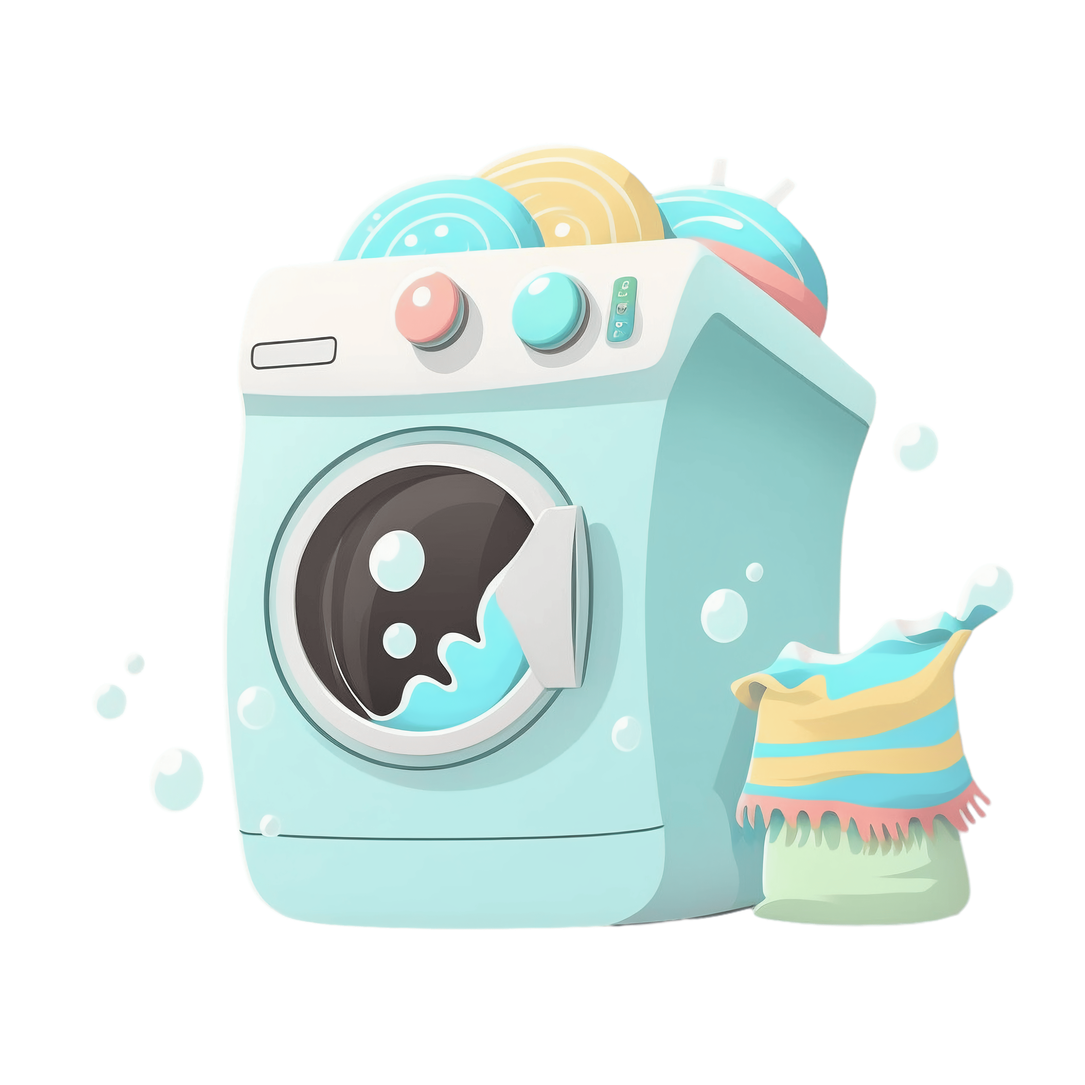
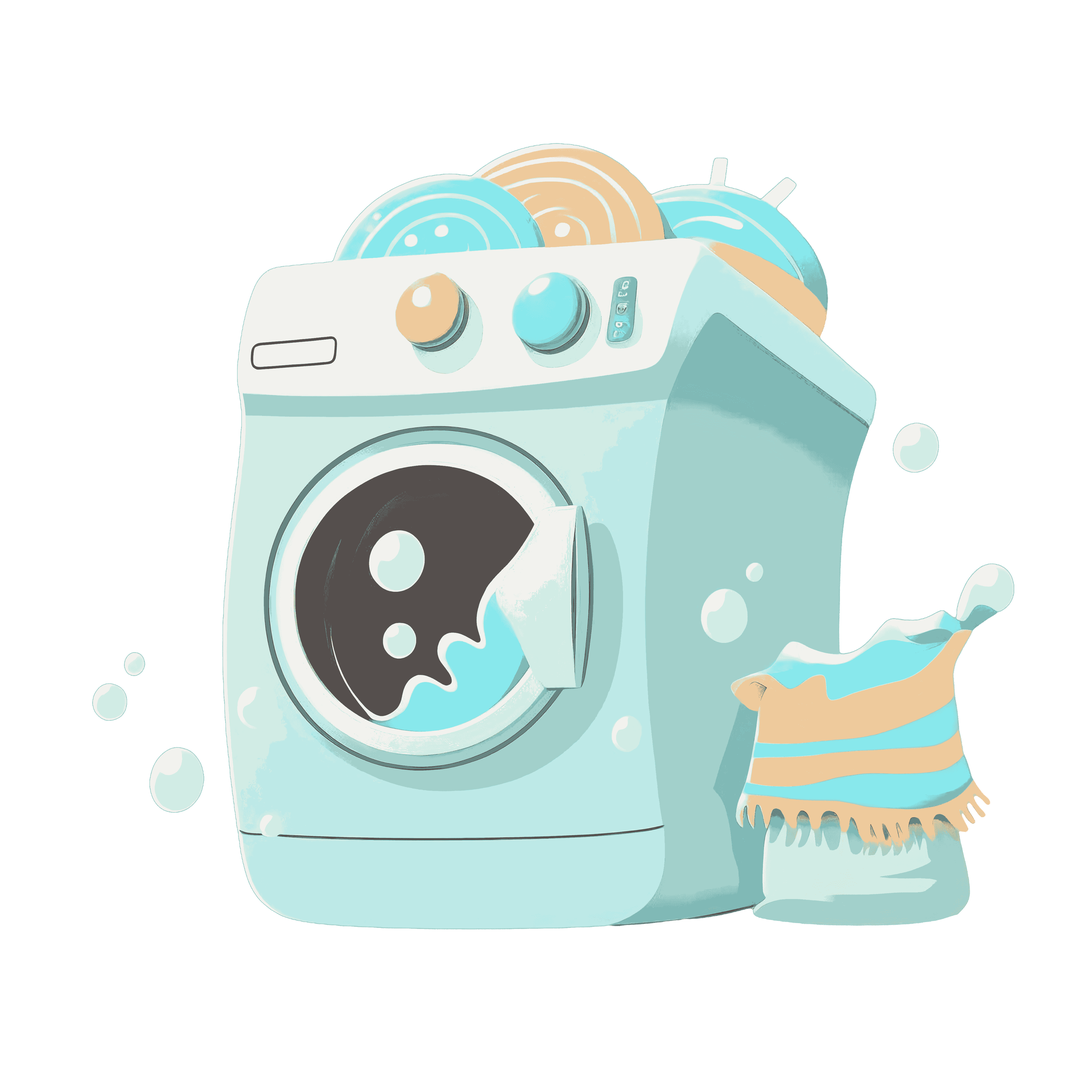
1. Added customer name on the machine card 2. Reduce image file size of machines

diff --git a/public/sw.js b/public/sw.js
@@ -1,1 +1,1 @@
-if(!self.define){let e,a={};const s=(s,n)=>(s=new URL(s+".js",n).href,a[s]||new Promise(a=>{if("document"in self){const e=document.createElement("script");e.src=s,e.onload=a,document.head.appendChild(e)}else e=s,importScripts(s),a()}).then(()=>{let e=a[s];if(!e)throw new Error(`Module ${s} didn’t register its module`);return e}));self.define=(n,t)=>{const i=e||("document"in self?document.currentScript.src:"")||location.href;if(a[i])return;let c={};const o=e=>s(e,i),r={module:{uri:i},exports:c,require:o};a[i]=Promise.all(n.map(e=>r[e]||o(e))).then(e=>(t(...e),c))}}define(["./workbox-4754cb34"],function(e){"use strict";importScripts(),self.skipWaiting(),e.clientsClaim(),e.precacheAndRoute([{url:"/_next/app-build-manifest.json",revision:"9d365383e2726a4067da9e233619fbbf"},{url:"/_next/static/SKlEOfRNqBEP_TpjzB6Do/_buildManifest.js",revision:"172e769da91baa11de9b258fb2d92f86"},{url:"/_next/static/SKlEOfRNqBEP_TpjzB6Do/_ssgManifest.js",revision:"b6652df95db52feb4daf4eca35380933"},{url:"/_next/static/chunks/117-346269503dbf0a27.js",revision:"SKlEOfRNqBEP_TpjzB6Do"},{url:"/_next/static/chunks/192-e29d1a4615249718.js",revision:"SKlEOfRNqBEP_TpjzB6Do"},{url:"/_next/static/chunks/277-f1d5c0aad355fd4f.js",revision:"SKlEOfRNqBEP_TpjzB6Do"},{url:"/_next/static/chunks/411-7b0825a9e261da51.js",revision:"SKlEOfRNqBEP_TpjzB6Do"},{url:"/_next/static/chunks/563-508cffd831ae086e.js",revision:"SKlEOfRNqBEP_TpjzB6Do"},{url:"/_next/static/chunks/572-73c5d1ef50225b33.js",revision:"SKlEOfRNqBEP_TpjzB6Do"},{url:"/_next/static/chunks/578-da149d7916090be9.js",revision:"SKlEOfRNqBEP_TpjzB6Do"},{url:"/_next/static/chunks/64-9a3f2ad958aa4f2a.js",revision:"SKlEOfRNqBEP_TpjzB6Do"},{url:"/_next/static/chunks/645-0a1400c2996e09a2.js",revision:"SKlEOfRNqBEP_TpjzB6Do"},{url:"/_next/static/chunks/667-b614c2dba61f071d.js",revision:"SKlEOfRNqBEP_TpjzB6Do"},{url:"/_next/static/chunks/736-cf288ecddac3fd3c.js",revision:"SKlEOfRNqBEP_TpjzB6Do"},{url:"/_next/static/chunks/878-8e9030393dacbd1b.js",revision:"SKlEOfRNqBEP_TpjzB6Do"},{url:"/_next/static/chunks/972-f02aa6c0fcc9f773.js",revision:"SKlEOfRNqBEP_TpjzB6Do"},{url:"/_next/static/chunks/app/(marketing)/page-011a1beed2db88b5.js",revision:"SKlEOfRNqBEP_TpjzB6Do"},{url:"/_next/static/chunks/app/(onboarding)/inviteStaff/page-a834c6fdd7d61cac.js",revision:"SKlEOfRNqBEP_TpjzB6Do"},{url:"/_next/static/chunks/app/(onboarding)/registerShop/page-4efa01af1414485e.js",revision:"SKlEOfRNqBEP_TpjzB6Do"},{url:"/_next/static/chunks/app/_not-found/page-b51179d51d3e7557.js",revision:"SKlEOfRNqBEP_TpjzB6Do"},{url:"/_next/static/chunks/app/acceptInvitation/page-ed07d6e92b082f9f.js",revision:"SKlEOfRNqBEP_TpjzB6Do"},{url:"/_next/static/chunks/app/auth/signIn/page-9244cbeba01b6838.js",revision:"SKlEOfRNqBEP_TpjzB6Do"},{url:"/_next/static/chunks/app/auth/signUp/page-b18f0d54fb6bd6c2.js",revision:"SKlEOfRNqBEP_TpjzB6Do"},{url:"/_next/static/chunks/app/layout-a80eb564ad504075.js",revision:"SKlEOfRNqBEP_TpjzB6Do"},{url:"/_next/static/chunks/app/not-allowed/page-6e2ae3ea8adae806.js",revision:"SKlEOfRNqBEP_TpjzB6Do"},{url:"/_next/static/chunks/app/not-found-bc83d0fa8e450ed1.js",revision:"SKlEOfRNqBEP_TpjzB6Do"},{url:"/_next/static/chunks/app/tenants/%5BtenantSlug%5D/adminDashboard/loading-27d4b7651ea1357c.js",revision:"SKlEOfRNqBEP_TpjzB6Do"},{url:"/_next/static/chunks/app/tenants/%5BtenantSlug%5D/adminDashboard/page-02eb5c966630a986.js",revision:"SKlEOfRNqBEP_TpjzB6Do"},{url:"/_next/static/chunks/app/tenants/%5BtenantSlug%5D/page-9cc80005dec10b3f.js",revision:"SKlEOfRNqBEP_TpjzB6Do"},{url:"/_next/static/chunks/app/tenants/%5BtenantSlug%5D/tenantDashboard/expense/page-417d3b6f6424c928.js",revision:"SKlEOfRNqBEP_TpjzB6Do"},{url:"/_next/static/chunks/app/tenants/%5BtenantSlug%5D/tenantDashboard/inventory/%5Bid%5D/edit/page-83a826a885116a83.js",revision:"SKlEOfRNqBEP_TpjzB6Do"},{url:"/_next/static/chunks/app/tenants/%5BtenantSlug%5D/tenantDashboard/inventory/itemSetup/page-c3b169059989d622.js",revision:"SKlEOfRNqBEP_TpjzB6Do"},{url:"/_next/static/chunks/app/tenants/%5BtenantSlug%5D/tenantDashboard/inventory/page-b416be79bbc77df4.js",revision:"SKlEOfRNqBEP_TpjzB6Do"},{url:"/_next/static/chunks/app/tenants/%5BtenantSlug%5D/tenantDashboard/machines/%5Bid%5D/edit/page-e28f90d2d692a0ee.js",revision:"SKlEOfRNqBEP_TpjzB6Do"},{url:"/_next/static/chunks/app/tenants/%5BtenantSlug%5D/tenantDashboard/machines/machineSetup/page-2290cc01ff1b3af0.js",revision:"SKlEOfRNqBEP_TpjzB6Do"},{url:"/_next/static/chunks/app/tenants/%5BtenantSlug%5D/tenantDashboard/machines/page-20b8c77b1d1da25f.js",revision:"SKlEOfRNqBEP_TpjzB6Do"},{url:"/_next/static/chunks/app/tenants/%5BtenantSlug%5D/tenantDashboard/page-073c47856ff36418.js",revision:"SKlEOfRNqBEP_TpjzB6Do"},{url:"/_next/static/chunks/app/tenants/%5BtenantSlug%5D/tenantDashboard/pos/page-0249a6d8063cde7a.js",revision:"SKlEOfRNqBEP_TpjzB6Do"},{url:"/_next/static/chunks/app/tenants/%5BtenantSlug%5D/tenantDashboard/sales/page-0030bcaf2c628602.js",revision:"SKlEOfRNqBEP_TpjzB6Do"},{url:"/_next/static/chunks/app/tenants/%5BtenantSlug%5D/tenantDashboard/services/%5Bid%5D/edit/page-2b92bac01a6f5f1e.js",revision:"SKlEOfRNqBEP_TpjzB6Do"},{url:"/_next/static/chunks/app/tenants/%5BtenantSlug%5D/tenantDashboard/services/page-8b127f4809a511c8.js",revision:"SKlEOfRNqBEP_TpjzB6Do"},{url:"/_next/static/chunks/app/tenants/%5BtenantSlug%5D/tenantDashboard/services/serviceSetup/page-a4812ecaa67dbcfa.js",revision:"SKlEOfRNqBEP_TpjzB6Do"},{url:"/_next/static/chunks/fd9d1056-34357aac543c38df.js",revision:"SKlEOfRNqBEP_TpjzB6Do"},{url:"/_next/static/chunks/framework-00a8ba1a63cfdc9e.js",revision:"SKlEOfRNqBEP_TpjzB6Do"},{url:"/_next/static/chunks/main-2dab491fb7ccb414.js",revision:"SKlEOfRNqBEP_TpjzB6Do"},{url:"/_next/static/chunks/main-app-6e8411507b0247c1.js",revision:"SKlEOfRNqBEP_TpjzB6Do"},{url:"/_next/static/chunks/pages/_app-15e2daefa259f0b5.js",revision:"SKlEOfRNqBEP_TpjzB6Do"},{url:"/_next/static/chunks/pages/_error-28b803cb2479b966.js",revision:"SKlEOfRNqBEP_TpjzB6Do"},{url:"/_next/static/chunks/polyfills-42372ed130431b0a.js",revision:"846118c33b2c0e922d7b3a7676f81f6f"},{url:"/_next/static/chunks/webpack-30d5dee8645b08e9.js",revision:"SKlEOfRNqBEP_TpjzB6Do"},{url:"/_next/static/css/cb3223f1338cb61b.css",revision:"cb3223f1338cb61b"},{url:"/_next/static/media/034d78ad42e9620c-s.woff2",revision:"be7c930fceb794521be0a68e113a71d8"},{url:"/_next/static/media/0484562807a97172-s.p.woff2",revision:"b550bca8934bd86812d1f5e28c9cc1de"},{url:"/_next/static/media/29a4aea02fdee119-s.woff2",revision:"69d9d2cdadeab7225297d50fc8e48e8b"},{url:"/_next/static/media/29e7bbdce9332268-s.woff2",revision:"9e3ecbe4bb4c6f0b71adc1cd481c2bdc"},{url:"/_next/static/media/39969fcf98a3026e-s.woff2",revision:"01cbba1eab04f564e7d2f44107608d74"},{url:"/_next/static/media/4de1fea1a954a5b6-s.p.woff2",revision:"b7d6b48d8d12946dc808ff39aed6c460"},{url:"/_next/static/media/6d664cce900333ee-s.p.woff2",revision:"017598645bcc882a3610effe171c2ca3"},{url:"/_next/static/media/8888a3826f4a3af4-s.p.woff2",revision:"792477d09826b11d1e5a611162c9797a"},{url:"/_next/static/media/a1386beebedccca4-s.woff2",revision:"d3aa06d13d3cf9c0558927051f3cb948"},{url:"/_next/static/media/b957ea75a84b6ea7-s.p.woff2",revision:"0bd523f6049956faaf43c254a719d06a"},{url:"/_next/static/media/c3bc380753a8436c-s.woff2",revision:"5a1b7c983a9dc0a87a2ff138e07ae822"},{url:"/_next/static/media/cce080f35d014443-s.woff2",revision:"b0d4953143648e4486d93df16327b906"},{url:"/_next/static/media/db911767852bc875-s.woff2",revision:"9516f567cd80b0f418bba2f1299ed6d1"},{url:"/_next/static/media/eafabf029ad39a43-s.p.woff2",revision:"43751174b6b810eb169101a20d8c26f8"},{url:"/_next/static/media/f10b8e9d91f3edcb-s.woff2",revision:"63af7d5e18e585fad8d0220e5d551da1"},{url:"/_next/static/media/fe0777f1195381cb-s.woff2",revision:"f2a04185547c36abfa589651236a9849"},{url:"/_next/static/media/spin-cycle-logo-a.f58b0745.png",revision:"ec02c18fdfc5e7ab17a22903724617d9"},{url:"/_next/static/media/spin-cycle-logo.4be90582.png",revision:"1c308f5442e2afd95ee4317b369c611d"},{url:"/dryer.png",revision:"88537963777236ded53eda079423cda3"},{url:"/file.svg",revision:"d09f95206c3fa0bb9bd9fefabfd0ea71"},{url:"/globe.svg",revision:"2aaafa6a49b6563925fe440891e32717"},{url:"/icons/icon-192.png",revision:"cc1334d4a3ef6e4212e45f394f7e9a9a"},{url:"/icons/icon-512.png",revision:"e153cdd3705961eef8340124b9dbf975"},{url:"/icons/spin-cycle-logo.png",revision:"1c308f5442e2afd95ee4317b369c611d"},{url:"/icons/splash.png",revision:"1c308f5442e2afd95ee4317b369c611d"},{url:"/manifest.json",revision:"1a758a91355410b4074ef88f67c94c0d"},{url:"/next.svg",revision:"8e061864f388b47f33a1c3780831193e"},{url:"/screenshots/dashboard-mobile.png",revision:"65f60e383796359d28191a6e04cbc8fd"},{url:"/screenshots/dashboard-wide.png",revision:"15e62be3eca1e09f1a4afde3d1cd1a6d"},{url:"/settings-icon.png",revision:"4b9e072ac74616b313b058e4f6eb2dae"},{url:"/spin-cycle-logo-a.png",revision:"ec02c18fdfc5e7ab17a22903724617d9"},{url:"/spin-cycle-logo.png",revision:"1c308f5442e2afd95ee4317b369c611d"},{url:"/vercel.svg",revision:"c0af2f507b369b085b35ef4bbe3bcf1e"},{url:"/washer.png",revision:"c472965d13fb02c81689647a903e1479"},{url:"/washer_ua.png",revision:"3901a1dcd2a9fb97d57c54825d54b367"},{url:"/window.svg",revision:"a2760511c65806022ad20adf74370ff3"}],{ignoreURLParametersMatching:[]}),e.cleanupOutdatedCaches(),e.registerRoute("/",new e.NetworkFirst({cacheName:"start-url",plugins:[{cacheWillUpdate:async({request:e,response:a,event:s,state:n})=>a&&"opaqueredirect"===a.type?new Response(a.body,{status:200,statusText:"OK",headers:a.headers}):a}]}),"GET"),e.registerRoute(/^https:\/\/fonts\.(?:gstatic)\.com\/.*/i,new e.CacheFirst({cacheName:"google-fonts-webfonts",plugins:[new e.ExpirationPlugin({maxEntries:4,maxAgeSeconds:31536e3})]}),"GET"),e.registerRoute(/^https:\/\/fonts\.(?:googleapis)\.com\/.*/i,new e.StaleWhileRevalidate({cacheName:"google-fonts-stylesheets",plugins:[new e.ExpirationPlugin({maxEntries:4,maxAgeSeconds:604800})]}),"GET"),e.registerRoute(/\.(?:eot|otf|ttc|ttf|woff|woff2|font.css)$/i,new e.StaleWhileRevalidate({cacheName:"static-font-assets",plugins:[new e.ExpirationPlugin({maxEntries:4,maxAgeSeconds:604800})]}),"GET"),e.registerRoute(/\.(?:jpg|jpeg|gif|png|svg|ico|webp)$/i,new e.StaleWhileRevalidate({cacheName:"static-image-assets",plugins:[new e.ExpirationPlugin({maxEntries:64,maxAgeSeconds:86400})]}),"GET"),e.registerRoute(/\/_next\/image\?url=.+$/i,new e.StaleWhileRevalidate({cacheName:"next-image",plugins:[new e.ExpirationPlugin({maxEntries:64,maxAgeSeconds:86400})]}),"GET"),e.registerRoute(/\.(?:mp3|wav|ogg)$/i,new e.CacheFirst({cacheName:"static-audio-assets",plugins:[new e.RangeRequestsPlugin,new e.ExpirationPlugin({maxEntries:32,maxAgeSeconds:86400})]}),"GET"),e.registerRoute(/\.(?:mp4)$/i,new e.CacheFirst({cacheName:"static-video-assets",plugins:[new e.RangeRequestsPlugin,new e.ExpirationPlugin({maxEntries:32,maxAgeSeconds:86400})]}),"GET"),e.registerRoute(/\.(?:js)$/i,new e.StaleWhileRevalidate({cacheName:"static-js-assets",plugins:[new e.ExpirationPlugin({maxEntries:32,maxAgeSeconds:86400})]}),"GET"),e.registerRoute(/\.(?:css|less)$/i,new e.StaleWhileRevalidate({cacheName:"static-style-assets",plugins:[new e.ExpirationPlugin({maxEntries:32,maxAgeSeconds:86400})]}),"GET"),e.registerRoute(/\/_next\/data\/.+\/.+\.json$/i,new e.StaleWhileRevalidate({cacheName:"next-data",plugins:[new e.ExpirationPlugin({maxEntries:32,maxAgeSeconds:86400})]}),"GET"),e.registerRoute(/\.(?:json|xml|csv)$/i,new e.NetworkFirst({cacheName:"static-data-assets",plugins:[new e.ExpirationPlugin({maxEntries:32,maxAgeSeconds:86400})]}),"GET"),e.registerRoute(({url:e})=>{if(!(self.origin===e.origin))return!1;const a=e.pathname;return!a.startsWith("/api/auth/")&&!!a.startsWith("/api/")},new e.NetworkFirst({cacheName:"apis",networkTimeoutSeconds:10,plugins:[new e.ExpirationPlugin({maxEntries:16,maxAgeSeconds:86400})]}),"GET"),e.registerRoute(({url:e})=>{if(!(self.origin===e.origin))return!1;return!e.pathname.startsWith("/api/")},new e.NetworkFirst({cacheName:"others",networkTimeoutSeconds:10,plugins:[new e.ExpirationPlugin({maxEntries:32,maxAgeSeconds:86400})]}),"GET"),e.registerRoute(({url:e})=>!(self.origin===e.origin),new e.NetworkFirst({cacheName:"cross-origin",networkTimeoutSeconds:10,plugins:[new e.ExpirationPlugin({maxEntries:32,maxAgeSeconds:3600})]}),"GET")});
+if(!self.define){let e,a={};const s=(s,n)=>(s=new URL(s+".js",n).href,a[s]||new Promise(a=>{if("document"in self){const e=document.createElement("script");e.src=s,e.onload=a,document.head.appendChild(e)}else e=s,importScripts(s),a()}).then(()=>{let e=a[s];if(!e)throw new Error(`Module ${s} didn’t register its module`);return e}));self.define=(n,t)=>{const c=e||("document"in self?document.currentScript.src:"")||location.href;if(a[c])return;let i={};const d=e=>s(e,c),r={module:{uri:c},exports:i,require:d};a[c]=Promise.all(n.map(e=>r[e]||d(e))).then(e=>(t(...e),i))}}define(["./workbox-4754cb34"],function(e){"use strict";importScripts(),self.skipWaiting(),e.clientsClaim(),e.precacheAndRoute([{url:"/_next/app-build-manifest.json",revision:"1ef81d504cd755bf4429873db05158bd"},{url:"/_next/static/AFw6_cBJJYCJxmzGdRXWb/_buildManifest.js",revision:"172e769da91baa11de9b258fb2d92f86"},{url:"/_next/static/AFw6_cBJJYCJxmzGdRXWb/_ssgManifest.js",revision:"b6652df95db52feb4daf4eca35380933"},{url:"/_next/static/chunks/117-346269503dbf0a27.js",revision:"AFw6_cBJJYCJxmzGdRXWb"},{url:"/_next/static/chunks/192-e29d1a4615249718.js",revision:"AFw6_cBJJYCJxmzGdRXWb"},{url:"/_next/static/chunks/277-f1d5c0aad355fd4f.js",revision:"AFw6_cBJJYCJxmzGdRXWb"},{url:"/_next/static/chunks/411-7b0825a9e261da51.js",revision:"AFw6_cBJJYCJxmzGdRXWb"},{url:"/_next/static/chunks/563-508cffd831ae086e.js",revision:"AFw6_cBJJYCJxmzGdRXWb"},{url:"/_next/static/chunks/572-73c5d1ef50225b33.js",revision:"AFw6_cBJJYCJxmzGdRXWb"},{url:"/_next/static/chunks/578-da149d7916090be9.js",revision:"AFw6_cBJJYCJxmzGdRXWb"},{url:"/_next/static/chunks/64-9a3f2ad958aa4f2a.js",revision:"AFw6_cBJJYCJxmzGdRXWb"},{url:"/_next/static/chunks/645-0a1400c2996e09a2.js",revision:"AFw6_cBJJYCJxmzGdRXWb"},{url:"/_next/static/chunks/667-b614c2dba61f071d.js",revision:"AFw6_cBJJYCJxmzGdRXWb"},{url:"/_next/static/chunks/736-cf288ecddac3fd3c.js",revision:"AFw6_cBJJYCJxmzGdRXWb"},{url:"/_next/static/chunks/878-8e9030393dacbd1b.js",revision:"AFw6_cBJJYCJxmzGdRXWb"},{url:"/_next/static/chunks/972-f02aa6c0fcc9f773.js",revision:"AFw6_cBJJYCJxmzGdRXWb"},{url:"/_next/static/chunks/app/(marketing)/page-011a1beed2db88b5.js",revision:"AFw6_cBJJYCJxmzGdRXWb"},{url:"/_next/static/chunks/app/(onboarding)/inviteStaff/page-a834c6fdd7d61cac.js",revision:"AFw6_cBJJYCJxmzGdRXWb"},{url:"/_next/static/chunks/app/(onboarding)/registerShop/page-4efa01af1414485e.js",revision:"AFw6_cBJJYCJxmzGdRXWb"},{url:"/_next/static/chunks/app/_not-found/page-38a1d4f8a5b3c28b.js",revision:"AFw6_cBJJYCJxmzGdRXWb"},{url:"/_next/static/chunks/app/acceptInvitation/page-ed07d6e92b082f9f.js",revision:"AFw6_cBJJYCJxmzGdRXWb"},{url:"/_next/static/chunks/app/auth/signIn/page-9244cbeba01b6838.js",revision:"AFw6_cBJJYCJxmzGdRXWb"},{url:"/_next/static/chunks/app/auth/signUp/page-b18f0d54fb6bd6c2.js",revision:"AFw6_cBJJYCJxmzGdRXWb"},{url:"/_next/static/chunks/app/layout-a80eb564ad504075.js",revision:"AFw6_cBJJYCJxmzGdRXWb"},{url:"/_next/static/chunks/app/not-allowed/page-6e2ae3ea8adae806.js",revision:"AFw6_cBJJYCJxmzGdRXWb"},{url:"/_next/static/chunks/app/not-found-bc83d0fa8e450ed1.js",revision:"AFw6_cBJJYCJxmzGdRXWb"},{url:"/_next/static/chunks/app/tenants/%5BtenantSlug%5D/adminDashboard/loading-27d4b7651ea1357c.js",revision:"AFw6_cBJJYCJxmzGdRXWb"},{url:"/_next/static/chunks/app/tenants/%5BtenantSlug%5D/adminDashboard/page-02eb5c966630a986.js",revision:"AFw6_cBJJYCJxmzGdRXWb"},{url:"/_next/static/chunks/app/tenants/%5BtenantSlug%5D/page-a0ba4e6bca8d4927.js",revision:"AFw6_cBJJYCJxmzGdRXWb"},{url:"/_next/static/chunks/app/tenants/%5BtenantSlug%5D/tenantDashboard/expense/page-cce459a6e61efd8c.js",revision:"AFw6_cBJJYCJxmzGdRXWb"},{url:"/_next/static/chunks/app/tenants/%5BtenantSlug%5D/tenantDashboard/inventory/%5Bid%5D/edit/page-83a826a885116a83.js",revision:"AFw6_cBJJYCJxmzGdRXWb"},{url:"/_next/static/chunks/app/tenants/%5BtenantSlug%5D/tenantDashboard/inventory/itemSetup/page-c3b169059989d622.js",revision:"AFw6_cBJJYCJxmzGdRXWb"},{url:"/_next/static/chunks/app/tenants/%5BtenantSlug%5D/tenantDashboard/inventory/page-b416be79bbc77df4.js",revision:"AFw6_cBJJYCJxmzGdRXWb"},{url:"/_next/static/chunks/app/tenants/%5BtenantSlug%5D/tenantDashboard/machines/%5Bid%5D/edit/page-e28f90d2d692a0ee.js",revision:"AFw6_cBJJYCJxmzGdRXWb"},{url:"/_next/static/chunks/app/tenants/%5BtenantSlug%5D/tenantDashboard/machines/machineSetup/page-2290cc01ff1b3af0.js",revision:"AFw6_cBJJYCJxmzGdRXWb"},{url:"/_next/static/chunks/app/tenants/%5BtenantSlug%5D/tenantDashboard/machines/page-20b8c77b1d1da25f.js",revision:"AFw6_cBJJYCJxmzGdRXWb"},{url:"/_next/static/chunks/app/tenants/%5BtenantSlug%5D/tenantDashboard/page-a7619f7bcbe0e715.js",revision:"AFw6_cBJJYCJxmzGdRXWb"},{url:"/_next/static/chunks/app/tenants/%5BtenantSlug%5D/tenantDashboard/pos/page-45aff65598093928.js",revision:"AFw6_cBJJYCJxmzGdRXWb"},{url:"/_next/static/chunks/app/tenants/%5BtenantSlug%5D/tenantDashboard/sales/page-0030bcaf2c628602.js",revision:"AFw6_cBJJYCJxmzGdRXWb"},{url:"/_next/static/chunks/app/tenants/%5BtenantSlug%5D/tenantDashboard/services/%5Bid%5D/edit/page-2b92bac01a6f5f1e.js",revision:"AFw6_cBJJYCJxmzGdRXWb"},{url:"/_next/static/chunks/app/tenants/%5BtenantSlug%5D/tenantDashboard/services/page-8b127f4809a511c8.js",revision:"AFw6_cBJJYCJxmzGdRXWb"},{url:"/_next/static/chunks/app/tenants/%5BtenantSlug%5D/tenantDashboard/services/serviceSetup/page-a4812ecaa67dbcfa.js",revision:"AFw6_cBJJYCJxmzGdRXWb"},{url:"/_next/static/chunks/fd9d1056-34357aac543c38df.js",revision:"AFw6_cBJJYCJxmzGdRXWb"},{url:"/_next/static/chunks/framework-00a8ba1a63cfdc9e.js",revision:"AFw6_cBJJYCJxmzGdRXWb"},{url:"/_next/static/chunks/main-2dab491fb7ccb414.js",revision:"AFw6_cBJJYCJxmzGdRXWb"},{url:"/_next/static/chunks/main-app-6e8411507b0247c1.js",revision:"AFw6_cBJJYCJxmzGdRXWb"},{url:"/_next/static/chunks/pages/_app-15e2daefa259f0b5.js",revision:"AFw6_cBJJYCJxmzGdRXWb"},{url:"/_next/static/chunks/pages/_error-28b803cb2479b966.js",revision:"AFw6_cBJJYCJxmzGdRXWb"},{url:"/_next/static/chunks/polyfills-42372ed130431b0a.js",revision:"846118c33b2c0e922d7b3a7676f81f6f"},{url:"/_next/static/chunks/webpack-30d5dee8645b08e9.js",revision:"AFw6_cBJJYCJxmzGdRXWb"},{url:"/_next/static/css/cb3223f1338cb61b.css",revision:"cb3223f1338cb61b"},{url:"/_next/static/media/034d78ad42e9620c-s.woff2",revision:"be7c930fceb794521be0a68e113a71d8"},{url:"/_next/static/media/0484562807a97172-s.p.woff2",revision:"b550bca8934bd86812d1f5e28c9cc1de"},{url:"/_next/static/media/29a4aea02fdee119-s.woff2",revision:"69d9d2cdadeab7225297d50fc8e48e8b"},{url:"/_next/static/media/29e7bbdce9332268-s.woff2",revision:"9e3ecbe4bb4c6f0b71adc1cd481c2bdc"},{url:"/_next/static/media/39969fcf98a3026e-s.woff2",revision:"01cbba1eab04f564e7d2f44107608d74"},{url:"/_next/static/media/4de1fea1a954a5b6-s.p.woff2",revision:"b7d6b48d8d12946dc808ff39aed6c460"},{url:"/_next/static/media/6d664cce900333ee-s.p.woff2",revision:"017598645bcc882a3610effe171c2ca3"},{url:"/_next/static/media/8888a3826f4a3af4-s.p.woff2",revision:"792477d09826b11d1e5a611162c9797a"},{url:"/_next/static/media/a1386beebedccca4-s.woff2",revision:"d3aa06d13d3cf9c0558927051f3cb948"},{url:"/_next/static/media/b957ea75a84b6ea7-s.p.woff2",revision:"0bd523f6049956faaf43c254a719d06a"},{url:"/_next/static/media/c3bc380753a8436c-s.woff2",revision:"5a1b7c983a9dc0a87a2ff138e07ae822"},{url:"/_next/static/media/cce080f35d014443-s.woff2",revision:"b0d4953143648e4486d93df16327b906"},{url:"/_next/static/media/db911767852bc875-s.woff2",revision:"9516f567cd80b0f418bba2f1299ed6d1"},{url:"/_next/static/media/eafabf029ad39a43-s.p.woff2",revision:"43751174b6b810eb169101a20d8c26f8"},{url:"/_next/static/media/f10b8e9d91f3edcb-s.woff2",revision:"63af7d5e18e585fad8d0220e5d551da1"},{url:"/_next/static/media/fe0777f1195381cb-s.woff2",revision:"f2a04185547c36abfa589651236a9849"},{url:"/_next/static/media/spin-cycle-logo-a.f58b0745.png",revision:"ec02c18fdfc5e7ab17a22903724617d9"},{url:"/_next/static/media/spin-cycle-logo.4be90582.png",revision:"1c308f5442e2afd95ee4317b369c611d"},{url:"/dryer.png",revision:"68a4e62d74c704ece4c2b6325bbcb862"},{url:"/icons/icon-192.png",revision:"cc1334d4a3ef6e4212e45f394f7e9a9a"},{url:"/icons/icon-512.png",revision:"e153cdd3705961eef8340124b9dbf975"},{url:"/icons/spin-cycle-logo.png",revision:"1c308f5442e2afd95ee4317b369c611d"},{url:"/icons/splash.png",revision:"1c308f5442e2afd95ee4317b369c611d"},{url:"/manifest.json",revision:"1a758a91355410b4074ef88f67c94c0d"},{url:"/screenshots/dashboard-mobile.png",revision:"65f60e383796359d28191a6e04cbc8fd"},{url:"/screenshots/dashboard-wide.png",revision:"15e62be3eca1e09f1a4afde3d1cd1a6d"},{url:"/settings-icon.png",revision:"4b9e072ac74616b313b058e4f6eb2dae"},{url:"/spin-cycle-logo-a.png",revision:"ec02c18fdfc5e7ab17a22903724617d9"},{url:"/spin-cycle-logo.png",revision:"1c308f5442e2afd95ee4317b369c611d"},{url:"/washer.png",revision:"e757b85af679eaeb930cc575d97c2f0f"},{url:"/washer_ua.png",revision:"7e34443e460f2c1b069751caf6edc4a5"}],{ignoreURLParametersMatching:[]}),e.cleanupOutdatedCaches(),e.registerRoute("/",new e.NetworkFirst({cacheName:"start-url",plugins:[{cacheWillUpdate:async({request:e,response:a,event:s,state:n})=>a&&"opaqueredirect"===a.type?new Response(a.body,{status:200,statusText:"OK",headers:a.headers}):a}]}),"GET"),e.registerRoute(/^https:\/\/fonts\.(?:gstatic)\.com\/.*/i,new e.CacheFirst({cacheName:"google-fonts-webfonts",plugins:[new e.ExpirationPlugin({maxEntries:4,maxAgeSeconds:31536e3})]}),"GET"),e.registerRoute(/^https:\/\/fonts\.(?:googleapis)\.com\/.*/i,new e.StaleWhileRevalidate({cacheName:"google-fonts-stylesheets",plugins:[new e.ExpirationPlugin({maxEntries:4,maxAgeSeconds:604800})]}),"GET"),e.registerRoute(/\.(?:eot|otf|ttc|ttf|woff|woff2|font.css)$/i,new e.StaleWhileRevalidate({cacheName:"static-font-assets",plugins:[new e.ExpirationPlugin({maxEntries:4,maxAgeSeconds:604800})]}),"GET"),e.registerRoute(/\.(?:jpg|jpeg|gif|png|svg|ico|webp)$/i,new e.StaleWhileRevalidate({cacheName:"static-image-assets",plugins:[new e.ExpirationPlugin({maxEntries:64,maxAgeSeconds:86400})]}),"GET"),e.registerRoute(/\/_next\/image\?url=.+$/i,new e.StaleWhileRevalidate({cacheName:"next-image",plugins:[new e.ExpirationPlugin({maxEntries:64,maxAgeSeconds:86400})]}),"GET"),e.registerRoute(/\.(?:mp3|wav|ogg)$/i,new e.CacheFirst({cacheName:"static-audio-assets",plugins:[new e.RangeRequestsPlugin,new e.ExpirationPlugin({maxEntries:32,maxAgeSeconds:86400})]}),"GET"),e.registerRoute(/\.(?:mp4)$/i,new e.CacheFirst({cacheName:"static-video-assets",plugins:[new e.RangeRequestsPlugin,new e.ExpirationPlugin({maxEntries:32,maxAgeSeconds:86400})]}),"GET"),e.registerRoute(/\.(?:js)$/i,new e.StaleWhileRevalidate({cacheName:"static-js-assets",plugins:[new e.ExpirationPlugin({maxEntries:32,maxAgeSeconds:86400})]}),"GET"),e.registerRoute(/\.(?:css|less)$/i,new e.StaleWhileRevalidate({cacheName:"static-style-assets",plugins:[new e.ExpirationPlugin({maxEntries:32,maxAgeSeconds:86400})]}),"GET"),e.registerRoute(/\/_next\/data\/.+\/.+\.json$/i,new e.StaleWhileRevalidate({cacheName:"next-data",plugins:[new e.ExpirationPlugin({maxEntries:32,maxAgeSeconds:86400})]}),"GET"),e.registerRoute(/\.(?:json|xml|csv)$/i,new e.NetworkFirst({cacheName:"static-data-assets",plugins:[new e.ExpirationPlugin({maxEntries:32,maxAgeSeconds:86400})]}),"GET"),e.registerRoute(({url:e})=>{if(!(self.origin===e.origin))return!1;const a=e.pathname;return!a.startsWith("/api/auth/")&&!!a.startsWith("/api/")},new e.NetworkFirst({cacheName:"apis",networkTimeoutSeconds:10,plugins:[new e.ExpirationPlugin({maxEntries:16,maxAgeSeconds:86400})]}),"GET"),e.registerRoute(({url:e})=>{if(!(self.origin===e.origin))return!1;return!e.pathname.startsWith("/api/")},new e.NetworkFirst({cacheName:"others",networkTimeoutSeconds:10,plugins:[new e.ExpirationPlugin({maxEntries:32,maxAgeSeconds:86400})]}),"GET"),e.registerRoute(({url:e})=>!(self.origin===e.origin),new e.NetworkFirst({cacheName:"cross-origin",networkTimeoutSeconds:10,plugins:[new e.ExpirationPlugin({maxEntries:32,maxAgeSeconds:3600})]}),"GET")});

diff --git a/features/(pos)/tenantDashBoard/components/MachineCard.tsx b/features/(pos)/tenantDashBoard/components/MachineCard.tsx
@@ -15,6 +15,7 @@ import {
 } from "@/components/ui/alert-dialog";
 import LoadingDeleteButton from "@/components/utils/LoadingDeleteButton";
 import { cancelOrderAction, completeOrderAction, getActiveOrderAction } from "../actions/orderActions";
+type ActiveOrder = Awaited<ReturnType<typeof getActiveOrderAction>>;
 
 type MachineCardProps = {
   id: string;
@@ -28,6 +29,7 @@ type MachineCardProps = {
 export default function MachineCard({ id, name, type, status, usageCount, onOrderCreated }: MachineCardProps) {
   const [open, setOpen] = useState(false);
   const [activeOrderId, setActiveOrderId] = useState<string | null>(null);
+  const [order, setOrder] = useState<ActiveOrder | null>(null);
   const [cancelling, setCancelling] = useState(false);
   const [completing, setCompleting] = useState(false);
 
@@ -52,6 +54,7 @@ export default function MachineCard({ id, name, type, status, usageCount, onOrde
     async function loadActiveOrder() {
       const order = await getActiveOrderAction(id);
       if (!cancelled) setActiveOrderId(order?.id ?? null);
+      if (!cancelled) setOrder(order ?? null);
     }
     void loadActiveOrder();
     return () => {
@@ -88,6 +91,13 @@ export default function MachineCard({ id, name, type, status, usageCount, onOrde
         }`}
       onClick={isUnavailable ? undefined : () => setOpen(true)}
     >
+
+      {isInUse && activeOrderId && (
+        <div className="shrink-0 px-3 py-2 text-sm font-bold text-center">
+          {order?.customer?.name ?? ""}
+        </div>
+      )}
+
       {/* Machine image with shake animation, flanked by Cancel/Complete when in use */}
       <div className="mb-3 flex w-full items-center justify-center gap-3">
         {isInUse && activeOrderId && (
@@ -108,6 +118,7 @@ export default function MachineCard({ id, name, type, status, usageCount, onOrde
           width={120}
           height={120}
           className={isInUse ? "animate-shake" : ""}
+          priority
         />
 
         {isInUse && activeOrderId && (
@@ -157,7 +168,7 @@ export default function MachineCard({ id, name, type, status, usageCount, onOrde
       {/* Machine info */}
       <h3 className="font-semibold">{name}</h3>
       <p className="text-sm text-muted-foreground capitalize">{type}</p>
-      <p className="text-sm">Status: {status}</p>
+      <p className="text-sm">Status: {status === "AVAILABLE" ? "Available" : status === "IN_USE" ? "In Use" : "Unavailable"}</p>
       <p className="text-sm">Usage Count: {usageCount}</p>
 
       {open && (

diff --git a/features/(pos)/tenantDashBoard/components/MachineGrid.tsx b/features/(pos)/tenantDashBoard/components/MachineGrid.tsx
@@ -2,9 +2,9 @@
 
 import { useCallback, useEffect, useState } from "react";
 import { getMachinesAction } from "@/features/machines/actions/getMachinesAction";
-import  MachineCard  from "./MachineCard"; // your card component
+import MachineCard from "./MachineCard"; // your card component
 import { Machine } from "@prisma/client";
-import  CardSkeleton  from "@/components/utils/cardSkeleton";
+import CardSkeleton from "@/components/utils/cardSkeleton";
 
 type MachineStatus = "AVAILABLE" | "IN_USE" | "UNAVAILABLE";
 
